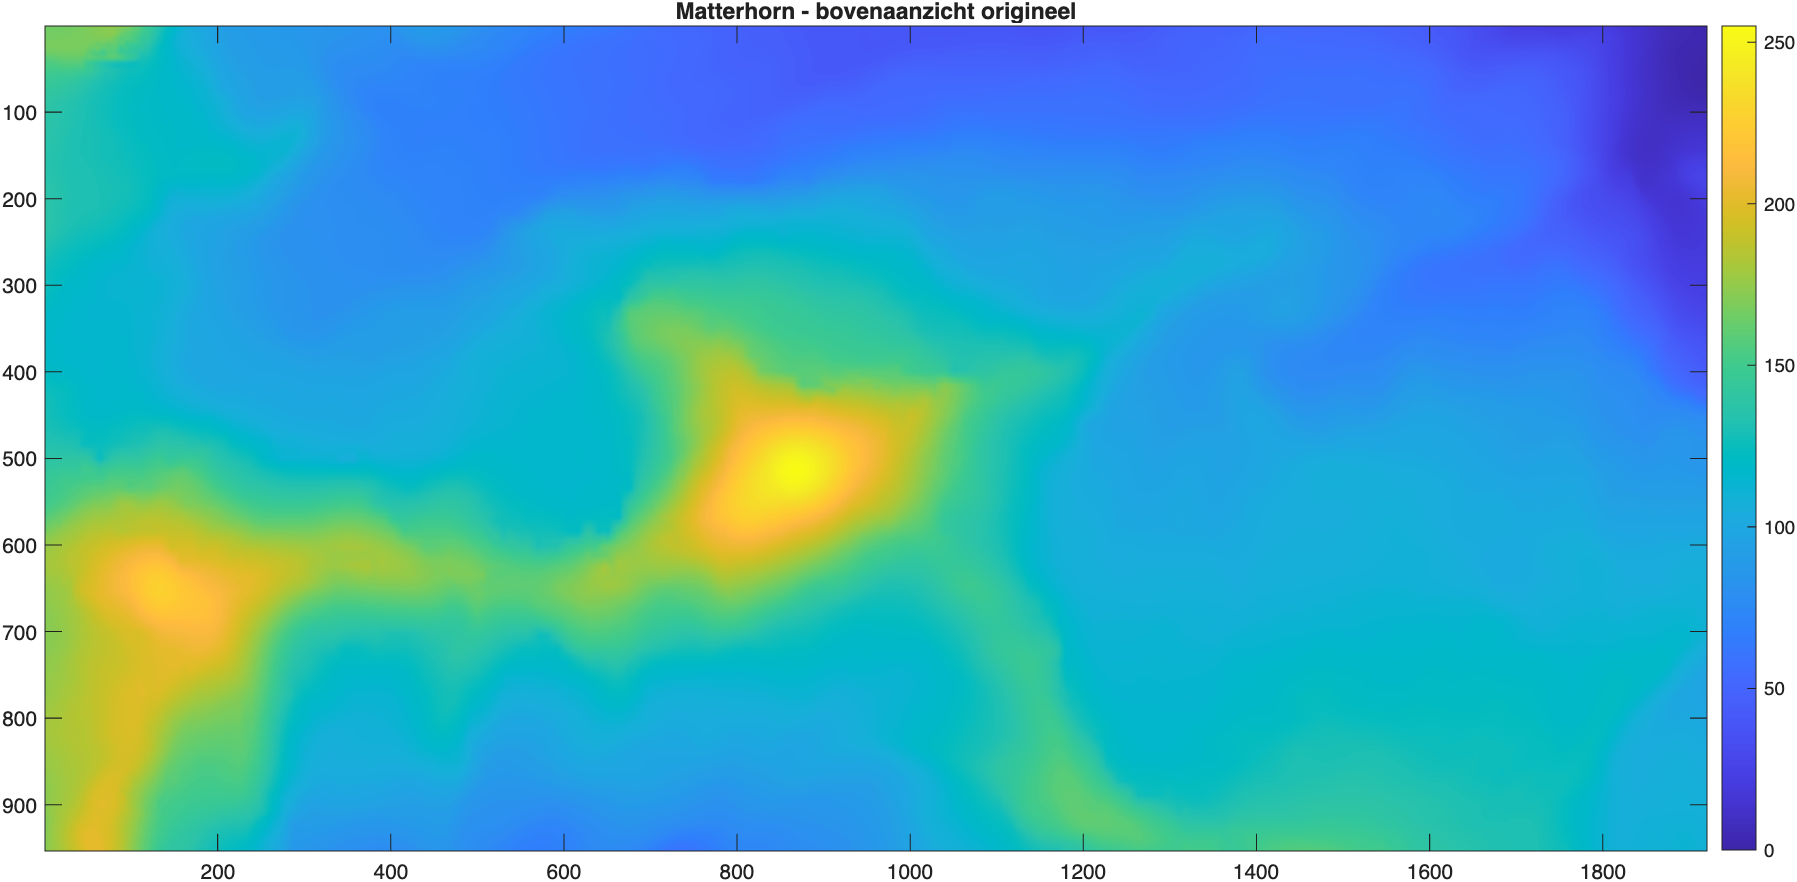
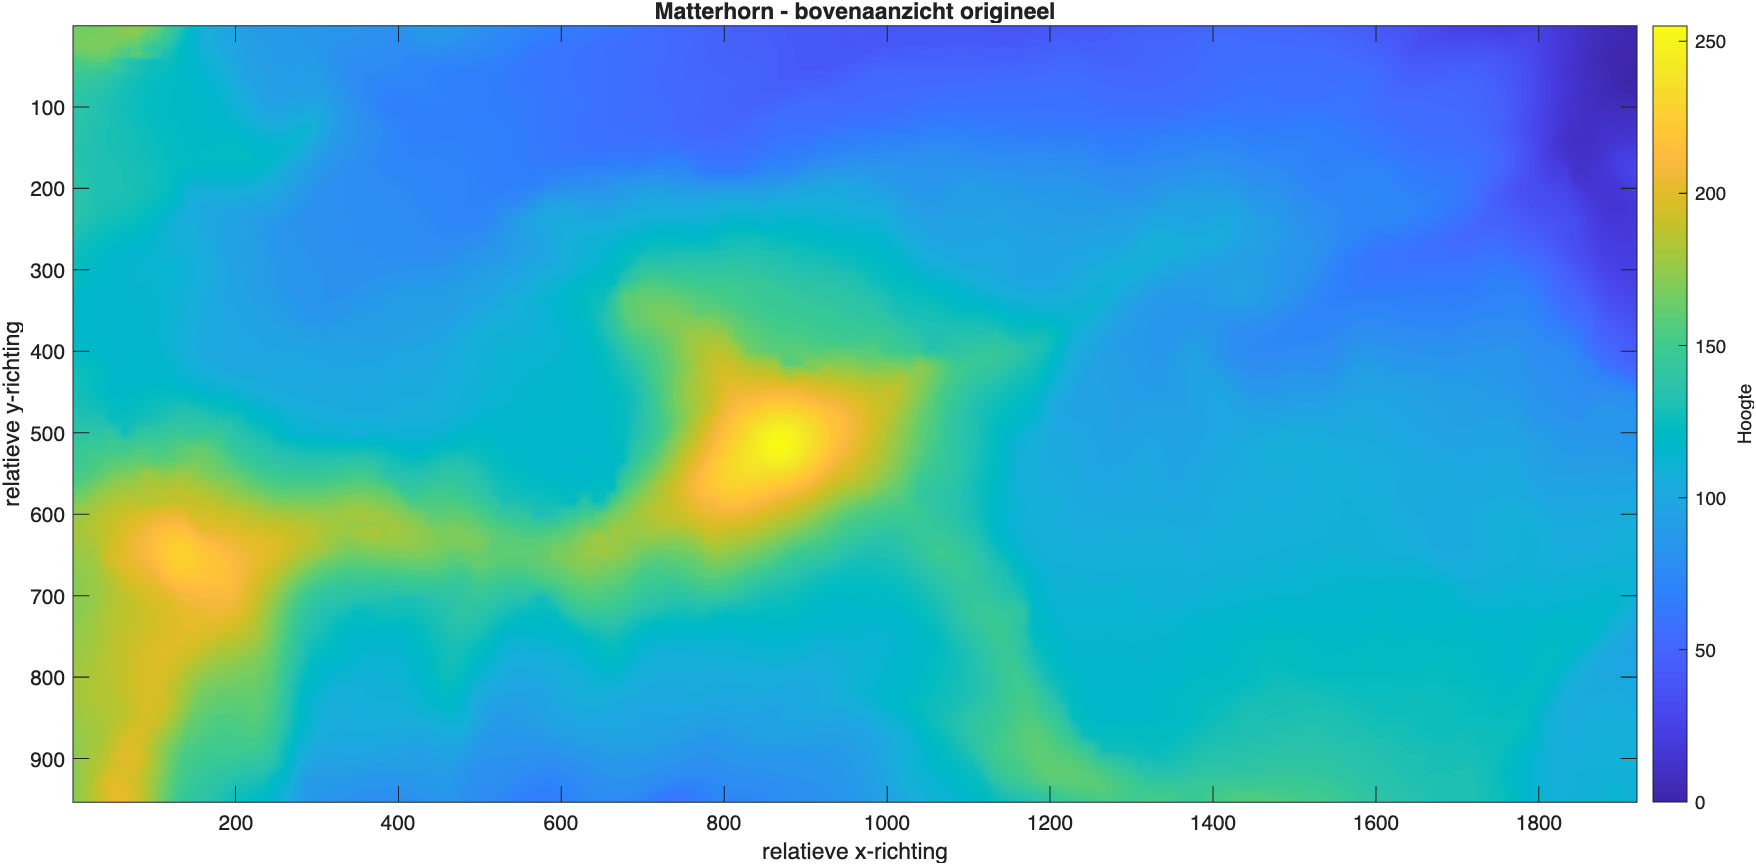
changed file names and completed assesment

diff --git a/opdracht7.m b/opdracht7.m
@@ -20,19 +20,21 @@ figure;
 surf(X, Y, F, 'EdgeColor', 'none', 'LineStyle', 'none', 'FaceLighting', 'phong');
 xlim([-1,1]); ylim([-1,1]); zlim([0, 250]);
 title('Matterhorn - origineel');
-xlabel('x'); ylabel('y'); zlabel('hoogte');
+xlabel('relatieve x-richting'); ylabel('relatieve y-richting'); zlabel('relatieve hoogte');
 
 %% Plot 2: benadering
 figure;
 surf(X, Y, F_approx, 'EdgeColor', 'none', 'LineStyle', 'none', 'FaceLighting', 'phong');
 xlim([-1,1]); ylim([-1,1]); zlim([0, 250]);
 title('Matterhorn - benadering (n=m=25)');
-xlabel('x'); ylabel('y'); zlabel('hoogte');
+xlabel('relatieve x-richting'); ylabel('relatieve y-richting'); zlabel('relatieve hoogte');
 
 %% Plot 3: bovenaanzicht origineel
 figure;
 imagesc(F);
 colorbar;
+cb = colorbar;
+xlabel('relatieve x-richting'); ylabel('relatieve y-richting');cb.Label.String = 'Hoogte';
 title('Matterhorn - bovenaanzicht origineel');
 axis equal tight;
 
@@ -40,6 +42,8 @@ axis equal tight;
 figure;
 imagesc(F_approx);
 colorbar;
+cb = colorbar;
+xlabel('relatieve x-richting'); ylabel('relatieve y-richting');cb.Label.String = 'Hoogte';
 title('Matterhorn - bovenaanzicht benadering (n=m=25)');
 axis equal tight;
 
@@ -47,12 +51,14 @@ axis equal tight;
 figure;
 contourf(X, Y, F, 20);
 colorbar;
-xlabel('x'); ylabel('y');
+cb = colorbar;
+xlabel('relatieve x-richting'); ylabel('relatieve y-richting');cb.Label.String = 'Hoogte';
 title('Matterhorn - contour origineel');
 
 %% Plot 6: contourplot benadering
 figure;
 contourf(X, Y, F_approx, 20);
 colorbar;
-xlabel('x'); ylabel('y');
+cb = colorbar;
+xlabel('relatieve x-richting'); ylabel('relatieve y-richting');cb.Label.String = 'Hoogte';
 title('Matterhorn - contour benadering (n=m=25)');

diff --git a/tests.m b/tests.m
@@ -85,20 +85,38 @@ ylabel('Frobeniusnorm van residu');
 title('Fout (Frobeniusnorm) vs graad');
 grid on;
 legend;
-%% Correctheidstest voor kkb_spline.m
+%% Correctheidstest voor kkb_spline.m (abs(x))
 clear all;
-f = @(x) (1/2)*x.^3 + 3*x.^2 -5*x +7;
 
-x_eval = linspace(-5, 5, 11);
+f = @(x) abs(x);
+
+a = -5; b = 5;
 k = 3;
-n = 5;
-t = linspace(min(x_eval), max(x_eval), n + k + 1)';
+n = 8;
+
+% Clamped knooppuntenrij: eerste en laatste knoop k+1 keer herhalen
+n_internal = n - k;  % aantal interne knoopintervallen
+internal_knots = linspace(a, b, n_internal + 2);  % inclusief a en b
+t = [repmat(a, 1, k), internal_knots, repmat(b, 1, k)]';
+
+R = 50;
+x_eval = linspace(a, b, R)';
 y_eval = f(x_eval);
 
-xplot = linspace(min(x_eval), max(x_eval), 1000);
-z_benadering = kkb_spline(t, x_eval, y_eval', xplot);
+xplot = linspace(a, b, 1000);
+
+z_benadering = kkb_spline(t, x_eval, y_eval, xplot);
 z_controle = f(xplot);
 
 fout = norm(z_benadering - z_controle);
-disp(fout);
+fprintf('Benaderingsfout (norm): %.6e\n', fout);
+
+figure;
+plot(xplot, z_controle, 'b-', 'LineWidth', 2); hold on;
+plot(xplot, z_benadering, 'r--', 'LineWidth', 2);
+scatter(x_eval, y_eval, 20, 'k', 'filled');
+legend('Exacte functie', 'KKB spline', 'Datapunten');
+grid on;
+xlabel('x');ylabel('y')
+title('Kleinstekwadratenbenadering met B-splines');
 

diff --git a/opdracht10.m b/opdracht10.m
@@ -1,0 +1,15 @@
+clc; clear all; close all;
+load("exercise10.mat")
+
+xplot = linspace(min(x), max(x), 1000);
+evaluatie1 = kkb_spline(t1, x, y', xplot);
+evaluatie2 = kkb_spline(t2, x, y', xplot);
+
+figure;
+hold on
+plot(x, y, 'ob');
+plot(xplot, evaluatie1, 'r', 'LineWidth', 2);
+plot(xplot, evaluatie2, 'g', 'LineWidth', 2);
+legend('Meetpunten', 'Knooppuntenrij t1', 'Knooppuntenrij t2');
+xlabel('x'); ylabel('y');
+title('Kleinstekwadratenbenadering met B-splines');

diff --git a/kkb_spline.m b/kkb_spline.m
@@ -1,4 +1,4 @@
-function Z = kkb_spline(t, x, f, xplot)
+function [Z, M] = kkb_spline(t, x, f, xplot)
 R = length(x);
 %t_length = n + 2k + 1
 t_length = length(t);
@@ -20,7 +20,7 @@ for rij = 1:R
 
     % recursief verder werken
     for ki = 1:k
-        for i = 1:n
+        for i = 1:n+k-ki
             % Eerste term opstellen
             if (t(i+ki) - t(i) == 0)
                 term1 = 0;

diff --git a/opdracht11.m b/opdracht11.m
@@ -1,0 +1,10 @@
+clc; clear all; close all;
+
+load("exercise10.mat")
+xplot = linspace(min(x), max(x), 1000);
+[evaluatie1, M] = kkb_spline(t1, x, y', xplot);
+
+figure;
+spy(M);
+title('Structuur van matrix M voor knooppuntenrij t1');
+xlabel('B-spline index'); ylabel('Datapunt index');
